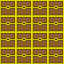
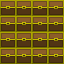
WoodWall, ConcreteWall, and Path tiles, and editor tile hover info

diff --git a/Managers/TextureManager.cs b/Managers/TextureManager.cs
@@ -53,6 +53,9 @@ public static class TextureManager
         WoodPlanks,
         Stone,
         Chest,
+        ConcreteWall,
+        WoodWall,
+        Path,
         // Decals
         Torch,
         BlueTorch,
@@ -79,49 +82,52 @@ public static class TextureManager
     {
         Content = content;
         // Load all
-        Textures[TextureID.Null] = content.Load<Texture2D>($"Images/Null");
-        Textures[TextureID.Pixel] = content.Load<Texture2D>($"Images/Pixel");
-        Textures[TextureID.BlueMage] = content.Load<Texture2D>($"Images/Characters/BlueMage");
-        Textures[TextureID.GrayMage] = content.Load<Texture2D>($"Images/Characters/GrayMage");
-        Textures[TextureID.WhiteMage] = content.Load<Texture2D>($"Images/Characters/WhiteMage");
-        Textures[TextureID.PurpleWizard] = content.Load<Texture2D>($"Images/Characters/PurpleWizard");
-        Textures[TextureID.WhiteWizard] = content.Load<Texture2D>($"Images/Characters/WhiteWizard");
-        Textures[TextureID.Ghost] = content.Load<Texture2D>($"Images/Characters/Ghost");
-        Textures[TextureID.CursorArrow] = content.Load<Texture2D>($"Images/Gui/CursorArrow");
-        Textures[TextureID.DialogBox] = content.Load<Texture2D>($"Images/Gui/DialogBox");
-        Textures[TextureID.GuiBackground] = content.Load<Texture2D>($"Images/Gui/GuiBackground");
-        Textures[TextureID.Slot] = content.Load<Texture2D>($"Images/Gui/Slot");
-        Textures[TextureID.Speech] = content.Load<Texture2D>($"Images/Gui/Speech");
-        Textures[TextureID.Lantern] = content.Load<Texture2D>($"Images/Items/Lantern");
-        Textures[TextureID.Pickaxe] = content.Load<Texture2D>($"Images/Items/Pickaxe");
-        Textures[TextureID.PhiCoin] = content.Load<Texture2D>($"Images/Items/PhiCoin");
-        Textures[TextureID.DeltaCoin] = content.Load<Texture2D>($"Images/Items/DeltaCoin");
-        Textures[TextureID.GammaCoin] = content.Load<Texture2D>($"Images/Items/GammaCoin");
-        Textures[TextureID.Key] = content.Load<Texture2D>($"Images/Items/Key");
-        Textures[TextureID.ActivePalantir] = content.Load<Texture2D>($"Images/Items/ActivePalantir");
-        Textures[TextureID.InactivePalantir] = content.Load<Texture2D>($"Images/Items/InactivePalantir");
-        Textures[TextureID.SteelSword] = content.Load<Texture2D>($"Images/Items/SteelSword");
-        Textures[TextureID.DiamondSword] = content.Load<Texture2D>($"Images/Items/DiamondSword");
-        Textures[TextureID.Dirt] = content.Load<Texture2D>($"Images/Tiles/Dirt");
-        Textures[TextureID.Flooring] = content.Load<Texture2D>($"Images/Tiles/Flooring");
-        Textures[TextureID.Grass] = content.Load<Texture2D>($"Images/Tiles/Grass");
-        Textures[TextureID.Sand] = content.Load<Texture2D>($"Images/Tiles/Sand");
-        Textures[TextureID.Sky] = content.Load<Texture2D>($"Images/Tiles/Sky");
-        Textures[TextureID.Stairs] = content.Load<Texture2D>($"Images/Tiles/Stairs");
-        Textures[TextureID.StoneWall] = content.Load<Texture2D>($"Images/Tiles/StoneWall");
-        Textures[TextureID.WoodPlanks] = content.Load<Texture2D>($"Images/Tiles/WoodPlanks");
-        Textures[TextureID.Water] = content.Load<Texture2D>($"Images/Tiles/Water");
-        Textures[TextureID.Darkness] = content.Load<Texture2D>($"Images/Tiles/Darkness");
-        Textures[TextureID.Door] = content.Load<Texture2D>($"Images/Tiles/Door");
-        Textures[TextureID.Stone] = content.Load<Texture2D>($"Images/Tiles/Stone");
-        Textures[TextureID.Chest] = content.Load<Texture2D>($"Images/Tiles/Chest");
-        Textures[TextureID.Torch] = content.Load<Texture2D>($"Images/Decals/Torch");
-        Textures[TextureID.BlueTorch] = content.Load<Texture2D>($"Images/Decals/BlueTorch");
-        Textures[TextureID.WaterPuddle] = content.Load<Texture2D>($"Images/Decals/WaterPuddle");
-        Textures[TextureID.BloodPuddle] = content.Load<Texture2D>($"Images/Decals/BloodPuddle");
-        Textures[TextureID.Footprint] = content.Load<Texture2D>($"Images/Decals/Footprint");
-        Textures[TextureID.Glow] = content.Load<Texture2D>($"Images/Effects/Glow");
-        Textures[TextureID.Slash] = content.Load<Texture2D>($"Images/Effects/Slash");
+        Textures[TextureID.Null] = content.Load<Texture2D>("Images/Null");
+        Textures[TextureID.Pixel] = content.Load<Texture2D>("Images/Pixel");
+        Textures[TextureID.BlueMage] = content.Load<Texture2D>("Images/Characters/BlueMage");
+        Textures[TextureID.GrayMage] = content.Load<Texture2D>("Images/Characters/GrayMage");
+        Textures[TextureID.WhiteMage] = content.Load<Texture2D>("Images/Characters/WhiteMage");
+        Textures[TextureID.PurpleWizard] = content.Load<Texture2D>("Images/Characters/PurpleWizard");
+        Textures[TextureID.WhiteWizard] = content.Load<Texture2D>("Images/Characters/WhiteWizard");
+        Textures[TextureID.Ghost] = content.Load<Texture2D>("Images/Characters/Ghost");
+        Textures[TextureID.CursorArrow] = content.Load<Texture2D>("Images/Gui/CursorArrow");
+        Textures[TextureID.DialogBox] = content.Load<Texture2D>("Images/Gui/DialogBox");
+        Textures[TextureID.GuiBackground] = content.Load<Texture2D>("Images/Gui/GuiBackground");
+        Textures[TextureID.Slot] = content.Load<Texture2D>("Images/Gui/Slot");
+        Textures[TextureID.Speech] = content.Load<Texture2D>("Images/Gui/Speech");
+        Textures[TextureID.Lantern] = content.Load<Texture2D>("Images/Items/Lantern");
+        Textures[TextureID.Pickaxe] = content.Load<Texture2D>("Images/Items/Pickaxe");
+        Textures[TextureID.PhiCoin] = content.Load<Texture2D>("Images/Items/PhiCoin");
+        Textures[TextureID.DeltaCoin] = content.Load<Texture2D>("Images/Items/DeltaCoin");
+        Textures[TextureID.GammaCoin] = content.Load<Texture2D>("Images/Items/GammaCoin");
+        Textures[TextureID.Key] = content.Load<Texture2D>("Images/Items/Key");
+        Textures[TextureID.ActivePalantir] = content.Load<Texture2D>("Images/Items/ActivePalantir");
+        Textures[TextureID.InactivePalantir] = content.Load<Texture2D>("Images/Items/InactivePalantir");
+        Textures[TextureID.SteelSword] = content.Load<Texture2D>("Images/Items/SteelSword");
+        Textures[TextureID.DiamondSword] = content.Load<Texture2D>("Images/Items/DiamondSword");
+        Textures[TextureID.Dirt] = content.Load<Texture2D>("Images/Tiles/Dirt");
+        Textures[TextureID.Flooring] = content.Load<Texture2D>("Images/Tiles/Flooring");
+        Textures[TextureID.Grass] = content.Load<Texture2D>("Images/Tiles/Grass");
+        Textures[TextureID.Sand] = content.Load<Texture2D>("Images/Tiles/Sand");
+        Textures[TextureID.Sky] = content.Load<Texture2D>("Images/Tiles/Sky");
+        Textures[TextureID.Stairs] = content.Load<Texture2D>("Images/Tiles/Stairs");
+        Textures[TextureID.StoneWall] = content.Load<Texture2D>("Images/Tiles/StoneWall");
+        Textures[TextureID.WoodPlanks] = content.Load<Texture2D>("Images/Tiles/WoodPlanks");
+        Textures[TextureID.Water] = content.Load<Texture2D>("Images/Tiles/Water");
+        Textures[TextureID.Darkness] = content.Load<Texture2D>("Images/Tiles/Darkness");
+        Textures[TextureID.Door] = content.Load<Texture2D>("Images/Tiles/Door");
+        Textures[TextureID.Stone] = content.Load<Texture2D>("Images/Tiles/Stone");
+        Textures[TextureID.Chest] = content.Load<Texture2D>("Images/Tiles/Chest");
+        Textures[TextureID.ConcreteWall] = content.Load<Texture2D>("Images/Tiles/ConcreteWall");
+        Textures[TextureID.WoodWall] = content.Load<Texture2D>("Images/Tiles/WoodWall");
+        Textures[TextureID.Path] = content.Load<Texture2D>("Images/Tiles/Path");
+        Textures[TextureID.Torch] = content.Load<Texture2D>("Images/Decals/Torch");
+        Textures[TextureID.BlueTorch] = content.Load<Texture2D>("Images/Decals/BlueTorch");
+        Textures[TextureID.WaterPuddle] = content.Load<Texture2D>("Images/Decals/WaterPuddle");
+        Textures[TextureID.BloodPuddle] = content.Load<Texture2D>("Images/Decals/BloodPuddle");
+        Textures[TextureID.Footprint] = content.Load<Texture2D>("Images/Decals/Footprint");
+        Textures[TextureID.Glow] = content.Load<Texture2D>("Images/Effects/Glow");
+        Textures[TextureID.Slash] = content.Load<Texture2D>("Images/Effects/Slash");
         Pixel = Textures[TextureID.Pixel];
 
         foreach (var kv in Textures)
@@ -168,6 +174,9 @@ public static class TextureManager
         Metadata[TextureID.Door] = new(Textures[TextureID.Door].Bounds.Size, new(4, 4), "tile");
         Metadata[TextureID.Stone] = new(Textures[TextureID.Stone].Bounds.Size, new(4, 4), "tile");
         Metadata[TextureID.Chest] = new(Textures[TextureID.Chest].Bounds.Size, new(4, 4), "tile");
+        Metadata[TextureID.ConcreteWall] = new(Textures[TextureID.ConcreteWall].Bounds.Size, new(4, 4), "tile");
+        Metadata[TextureID.WoodWall] = new(Textures[TextureID.WoodWall].Bounds.Size, new(4, 4), "tile");
+        Metadata[TextureID.Path] = new(Textures[TextureID.Path].Bounds.Size, new(4, 4), "tile");
         Metadata[TextureID.Torch] = new(Textures[TextureID.Torch].Bounds.Size, new(6, 1), "decal");
         Metadata[TextureID.BlueTorch] = new(Textures[TextureID.BlueTorch].Bounds.Size, new(6, 1), "decal");
         Metadata[TextureID.WaterPuddle] = new(Textures[TextureID.WaterPuddle].Bounds.Size, new(1, 1), "decal");

diff --git a/Editor/LevelEditor.cs b/Editor/LevelEditor.cs
@@ -23,6 +23,7 @@ public class LevelEditor : Game
     private Point mouseSelectionCoord;
     private Point mouseSelection;
     private LevelGenerator levelGenerator = null!;
+    private MouseMenu mouseMenu;
 
     // Time
     private float delta = 0;
@@ -79,7 +80,7 @@ public class LevelEditor : Game
 
         // Gui
         gui = new(this, spriteBatch, Arial);
-        MouseMenu mouseMenu = new(gui, Point.Zero, new(100, 300), Color.White, GUI.NearBlack, Color.Gray, border:1, seperation:3, borderColor:Color.White);
+        mouseMenu = new(gui, Point.Zero, new(100, 300), Color.White, GUI.NearBlack, Color.Gray, border:1, seperation:3, borderColor:Color.White);
         mouseMenu.AddItem("Pick", () => { Selection = (int)mouseTile.Type; Material = mouseTile.Type; Logger.Log($"Picked tile '{Material}' @ {mouseCoord.X}, {mouseCoord.Y}."); }, []);
         mouseMenu.AddItem("Open", editorManager.OpenFile, []);
         mouseMenu.AddItem("Fill", editorManager.FloodFill, []);
@@ -152,9 +153,6 @@ public class LevelEditor : Game
         // Manager
         editorManager.Update(Material, delta, mouseTile, mouseCoord, mouseSelection, mouseSelectionCoord);
 
-        // Gui
-        gui.Update(delta, InputManager.MouseState, InputManager.KeyboardState);
-
         // Change material
         if (InputManager.ScrollWheelChange > 0 || InputManager.KeyPressed(Keys.OemCloseBrackets))
         {
@@ -171,14 +169,14 @@ public class LevelEditor : Game
         }
 
         // Draw
-        if (InputManager.LMouseDown && mouseTile.Type != Material)
+        if (InputManager.LMouseDown && mouseTile.Type != Material && !mouseMenu.Visible)
         {
             // Add tile
             Tile tile;
             if (Selection == (int)TileType.Stairs)
-                tile = new Stairs(mouseCoord, "null", Constants.MiddleCoord);
+                tile = new Stairs(mouseCoord, "", Constants.MiddleCoord);
             else if (Selection == (int)TileType.Door)
-                tile = new Door(mouseCoord, "Key");
+                tile = new Door(mouseCoord, "");
             else
                 tile = LevelManager.TileFromId(Selection, mouseCoord);
 
@@ -216,6 +214,8 @@ public class LevelEditor : Game
         if (!PopupFactory.PopupOpen) InputManager.Update();
         DebugManager.Update();
         CameraManager.Update(delta);
+        // Gui
+        gui.Update(delta, InputManager.MouseState, InputManager.KeyboardState);
 
         TimerManager.Update(gameManager);
         gameManager.Update(delta);
@@ -263,6 +263,14 @@ public class LevelEditor : Game
             DrawTexture(spriteBatch, texture, mouseTile.Location * Constants.TileSize - CameraManager.Camera.ToPoint() + Constants.Middle, source:new(Point.Zero, Constants.TilePixelSize), scale:4, color:Constants.SemiTransparent);
         }
 
+        // Tile info
+        if (mouseTile is Stairs stair)
+            DrawBottomInfo($"[Stairs] dest: '{stair.DestLevel}' @ {stair.DestPosition.X},{stair.DestPosition.Y}");
+        else if (mouseTile is Door door)
+            DrawBottomInfo($"[Door] key: '{door.Key}'");
+        else if (mouseTile is Chest chest)
+            DrawBottomInfo($"[Chest] gen: '{chest.LootGeneratorFileName}'");
+        
         // Gui
         gui.Draw();
 
@@ -295,5 +303,13 @@ public class LevelEditor : Game
         if (coord.X < 0 || coord.X >= Constants.MapSize.X || coord.Y < 0 || coord.Y >= Constants.MapSize.Y)
             throw new ArgumentOutOfRangeException(nameof(coord), "Coordinates are out of bounds of the level.");
         return levelManager.Level.Tiles[coord.X + coord.Y * Constants.MapSize.X];
+    }
+    public void DrawBottomInfo(string text)
+    {
+        Vector2 textSize = Arial.MeasureString(text);
+        Vector2 pos = new(Constants.Middle.X - textSize.X / 2, Constants.Window.Y - textSize.Y - 3);
+        spriteBatch.FillRectangle(new(pos - Vector2.One * 4, textSize + Vector2.One * 8), Color.Gray * 0.5f);
+        spriteBatch.DrawRectangle(new(pos - Vector2.One * 4, textSize + Vector2.One * 8), Color.Black * 0.5f);
+        spriteBatch.DrawString(Arial, text, pos, Color.Black);
     }
 }

diff --git a/Editor/LevelGenerator.cs b/Editor/LevelGenerator.cs
@@ -1,7 +1,5 @@
 using System.IO;
 using System.Linq;
-using System.Windows.Forms;
-using SharpDX.DirectWrite;
 
 namespace Quest.Editor;
 public class Terrain(params (float min, float max, TileType tile)[] ranges)
@@ -42,14 +40,14 @@ public class LevelGenerator
         // Read each structure
         foreach (string file in Directory.GetFiles("World\\Structures", "*.qst"))
         {
-            string name = Path.GetFileNameWithoutExtension(file);
+            string name = System.IO.Path.GetFileNameWithoutExtension(file);
             Structures[name] = ReadStructure(file);
         }
 
         // Read each terrain preset
         foreach (string file in Directory.GetFiles("World\\Terrain", "*.qtr"))
         {
-            string name = Path.GetFileNameWithoutExtension(file);
+            string name = System.IO.Path.GetFileNameWithoutExtension(file);
             Terrains[name] = ReadTerrainPreset(file);
         }
         Terrain = Terrains["Islands"];

diff --git a/Editor/EditorManager.cs b/Editor/EditorManager.cs
@@ -192,9 +192,9 @@ public class EditorManager
                 return;
             }
             if (values[1] == "Loot Table")
-                chest.RegenerateLoot(LootTable.ReadLootTable($"World\\Loot\\{values[0]}"));
+                chest.RegenerateLoot(LootTable.ReadLootTable($"World\\Loot\\{values[0]}.qlt"));
             else if (values[1] == "Loot Preset")
-                chest.RegenerateLoot(LootPreset.ReadLootPreset($"World\\Loot\\{values[0]}"));
+                chest.RegenerateLoot(LootPreset.ReadLootPreset($"World\\Loot\\{values[0]}.qlp"));
             else
                 Logger.Error("Chest edit failed.");
         }

diff --git a/Managers/LevelManager.cs b/Managers/LevelManager.cs
@@ -319,6 +319,9 @@ public class LevelManager
             TileType.Stone => new Stone(location),
             TileType.Door => new Door(location, ""),
             TileType.Chest => new Chest(location, LootPreset.EmptyPreset),
+            TileType.ConcreteWall => new ConcreteWall(location),
+            TileType.WoodWall => new WoodWall(location),
+            TileType.Path => new Tiles.Path(location),
             _ => throw new ArgumentException($"Unknown TileFromId TileType '{id}'.")
         };
     }

diff --git a/Constants.cs b/Constants.cs
@@ -80,5 +80,8 @@ public static class Constants
         new(102, 60, 14), // WoodPlanks
         Color.Gray, // Stone
         Color.Tan, // Chest
+        Color.LightGray, // ConcreteWall
+        new(92, 53, 23), // WoodWall
+        new(163, 89, 33), // Path
     ];
 }

diff --git a/Tiles/ConcreteWall.cs b/Tiles/ConcreteWall.cs
@@ -1,0 +1,11 @@
+using Xna = Microsoft.Xna.Framework;
+
+namespace Quest.Tiles;
+
+public class ConcreteWall : Tile
+{
+    public ConcreteWall(Xna.Point location) : base(location)
+    {
+        IsWalkable = false;
+    }
+}

diff --git a/Tiles/WoodWall.cs b/Tiles/WoodWall.cs
@@ -1,0 +1,11 @@
+using Xna = Microsoft.Xna.Framework;
+
+namespace Quest.Tiles;
+
+public class WoodWall : Tile
+{
+    public WoodWall(Xna.Point location) : base(location)
+    {
+        IsWalkable = false;
+    }
+}

diff --git a/Tiles/Path.cs b/Tiles/Path.cs
@@ -1,0 +1,9 @@
+namespace Quest.Tiles;
+
+public class Path : Tile
+{
+    public Path(Point location) : base(location)
+    {
+        IsWalkable = true;
+    }
+}

diff --git a/Tiles/Tile.cs b/Tiles/Tile.cs
@@ -19,6 +19,9 @@ public enum TileType
     WoodPlanks,
     Stone,
     Chest,
+    ConcreteWall,
+    WoodWall,
+    Path,
 }
 public class Tile
 {
